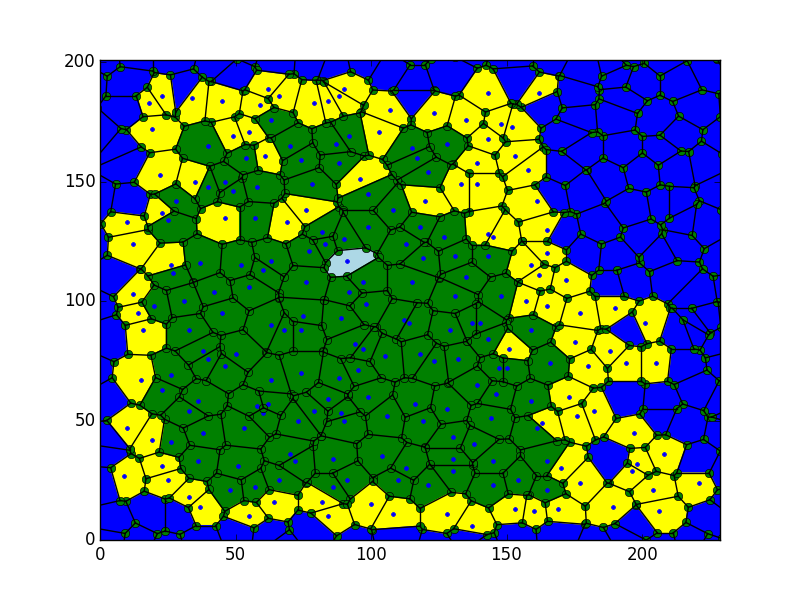
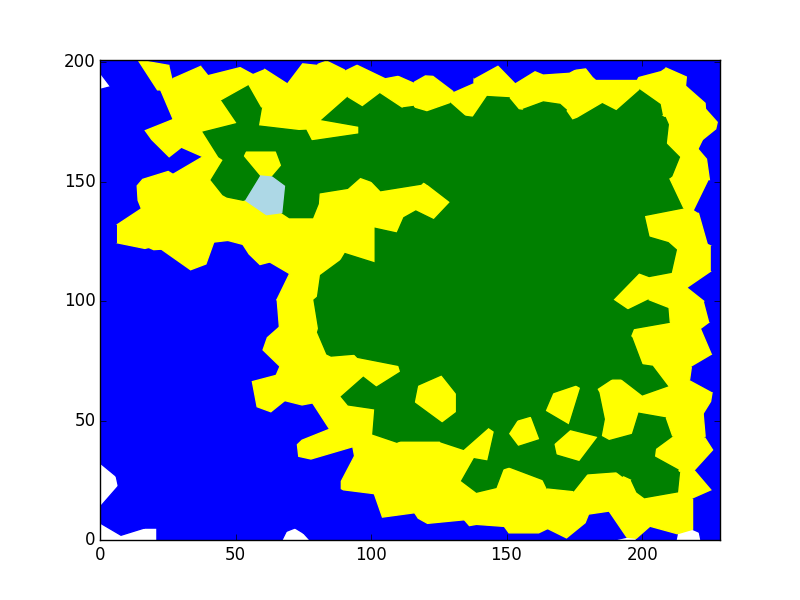
Generates 2 example pictures

diff --git a/mapgenerator.py b/mapgenerator.py
@@ -58,7 +58,7 @@ class VoronoiPlot:
                 return 'land'
         elif shared_points_sea:
             if not regen and self.beach < 3:
-                if (shared_points_beach or shared_points_land) or np.random.randint(0, 200) == 1:
+                if (shared_points_beach or shared_points_land) or np.random.randint(0, 160) == 1:
                     self.beach += 1
                     print('beach')
                     return 'beach'
@@ -117,7 +117,7 @@ class VoronoiPlot:
                 plt.fill(*zip(*tile[0]), color='yellow')
             elif tile[1] == 'land':
                 plt.fill(*zip(*tile[0]), color='green')
-        plt.savefig('with-lines.png')
+        plt.savefig('without-lines.png')
 
         plt.figure(1)
         plt.axis([0, 228.624, 0, 201])
@@ -130,11 +130,11 @@ class VoronoiPlot:
                 plt.fill(*zip(*tile[0]), color='yellow')
             elif tile[1] == 'land':
                 plt.fill(*zip(*tile[0]), color='green')
-        plt.savefig('without-lines.png')
+        plt.savefig('with-lines.png')
 
 
 if __name__ == '__main__':
-    plot = VoronoiPlot(777)
+    plot = VoronoiPlot()
     plot.generate()
     plt.axis([0, 228.624, 0, 201])  # size is weird because it will be filled up by hexagons
     print(plot.beach)
